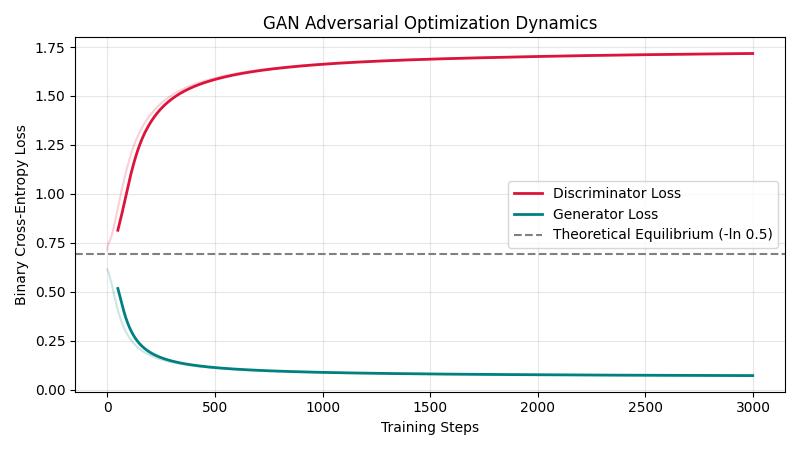
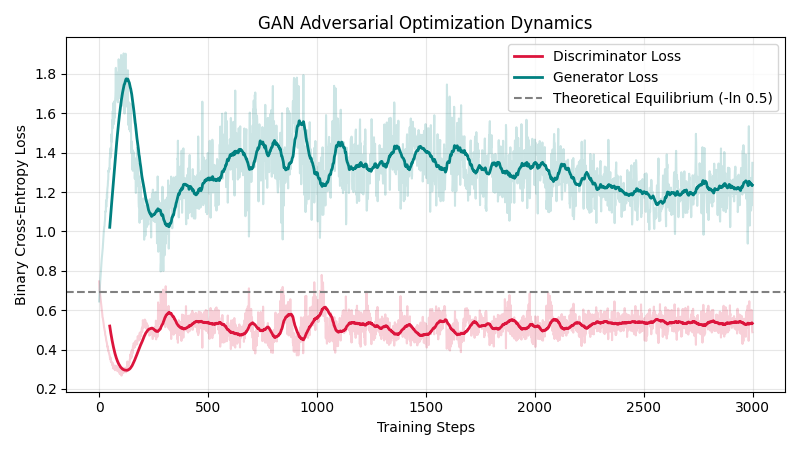
29-30

diff --git a/Exp.No.29/29.py b/Exp.No.29/29.py
@@ -18,14 +18,6 @@ def get_path(filename):
     return os.path.join(BASE_DIR, filename)
 
 
-def to_scalar(val):
-    """Safely extracts a scalar float from any 0D/1D numpy array, list, or tensor."""
-    arr = np.asarray(val)
-    if arr.ndim == 0:
-        return float(arr)
-    return float(arr.flatten()[0])
-
-
 def load_hazard_signs(filename="q29_hazard_signs_cgan.csv"):
     df = pd.read_csv(get_path(filename))
     X = df[[f"p_{i}" for i in range(64)]].values.astype(np.float32)
@@ -39,8 +31,8 @@ def build_cgan_models(latent_dim=16, num_classes=3):
     label_in = Input(shape=(1,), dtype="int32")
     label_emb = Reshape((latent_dim,))(Embedding(num_classes, latent_dim)(label_in))
     gen_in = Concatenate()([noise_in, label_emb])
-    h_g = LeakyReLU(alpha=0.2)(Dense(64)(gen_in))
-    h_g = LeakyReLU(alpha=0.2)(Dense(128)(h_g))
+    h_g = LeakyReLU(negative_slope=0.2)(Dense(64)(gen_in))
+    h_g = LeakyReLU(negative_slope=0.2)(Dense(128)(h_g))
     out_g = Dense(64, activation="sigmoid")(h_g)
     generator = Model([noise_in, label_in], out_g, name="cgen")
 
@@ -49,51 +41,60 @@ def build_cgan_models(latent_dim=16, num_classes=3):
     disc_label_in = Input(shape=(1,), dtype="int32")
     disc_label_emb = Reshape((64,))(Embedding(num_classes, 64)(disc_label_in))
     disc_in = Concatenate()([img_in, disc_label_emb])
-    h_d = LeakyReLU(alpha=0.2)(Dense(128)(disc_in))
-    h_d = LeakyReLU(alpha=0.2)(Dense(64)(h_d))
+    h_d = LeakyReLU(negative_slope=0.2)(Dense(128)(disc_in))
+    h_d = LeakyReLU(negative_slope=0.2)(Dense(64)(h_d))
     out_d = Dense(1, activation="sigmoid")(h_d)
     discriminator = Model([img_in, disc_label_in], out_d, name="cdisc")
-    discriminator.compile(
-        optimizer=tf.keras.optimizers.Adam(0.0005, beta_1=0.5),
-        loss="binary_crossentropy"
-    )
-
-    # Combined Conditional Model (trains generator)
-    discriminator.trainable = False
-    validity = discriminator([out_g, label_in])
-    cgan = Model([noise_in, label_in], validity)
-    cgan.compile(
-        optimizer=tf.keras.optimizers.Adam(0.0005, beta_1=0.5),
-        loss="binary_crossentropy"
-    )
-
-    return generator, discriminator, cgan
+    return generator, discriminator
 
 
 def train_cgan(X_real, y_real, steps=5000, batch_size=32, latent_dim=16):
+    """Conditional GAN trained with an explicit GradientTape loop. The discriminator update
+    changes only the discriminator weights and the generator update changes only the
+    generator weights, so no trainable-flag switching is needed."""
     num_classes = int(y_real.max()) + 1
-    gen, disc, cgan = build_cgan_models(latent_dim, num_classes)
+    gen, disc = build_cgan_models(latent_dim, num_classes)
+    bce = tf.keras.losses.BinaryCrossentropy()
+    g_opt = tf.keras.optimizers.Adam(0.0002, beta_1=0.5)
+    d_opt = tf.keras.optimizers.Adam(0.0002, beta_1=0.5)
+    real_data = tf.constant(X_real, dtype=tf.float32)
+    real_labels = tf.constant(y_real.reshape(-1, 1), dtype=tf.int32)
     m = len(X_real)
+
+    @tf.function
+    def train_step():
+        idx = tf.random.uniform((batch_size,), 0, m, dtype=tf.int32)
+        real_imgs = tf.gather(real_data, idx)
+        labels = tf.gather(real_labels, idx)
+
+        # Discriminator step (real label smoothed to 0.9, fakes use the same class labels)
+        noise = tf.random.normal((batch_size, latent_dim))
+        with tf.GradientTape() as d_tape:
+            fake_imgs = gen([noise, labels], training=True)
+            d_real = disc([real_imgs, labels], training=True)
+            d_fake = disc([fake_imgs, labels], training=True)
+            d_loss = 0.5 * (
+                bce(tf.ones_like(d_real) * 0.9, d_real) + bce(tf.zeros_like(d_fake), d_fake)
+            )
+        d_grads = d_tape.gradient(d_loss, disc.trainable_variables)
+        d_opt.apply_gradients(zip(d_grads, disc.trainable_variables))
+
+        # Generator step with random class labels and fresh noise
+        noise = tf.random.normal((batch_size, latent_dim))
+        sampled = tf.random.uniform((batch_size, 1), 0, num_classes, dtype=tf.int32)
+        with tf.GradientTape() as g_tape:
+            fake_imgs = gen([noise, sampled], training=True)
+            g_out = disc([fake_imgs, sampled], training=False)
+            g_loss = bce(tf.ones_like(g_out), g_out)
+        g_grads = g_tape.gradient(g_loss, gen.trainable_variables)
+        g_opt.apply_gradients(zip(g_grads, gen.trainable_variables))
+        return d_loss, g_loss
+
     d_losses, g_losses = [], []
-
     for _ in range(steps):
-        # Sample real images and their labels
-        idx = np.random.randint(0, m, batch_size)
-        real_imgs, labels = X_real[idx], y_real[idx].reshape(-1, 1)
-        noise = np.random.normal(0, 1, (batch_size, latent_dim)).astype(np.float32)
-        fake_imgs = gen.predict_on_batch([noise, labels])
-
-        # Train Discriminator (real label smoothed to 0.9)
-        res_real = disc.train_on_batch([real_imgs, labels], np.ones((batch_size, 1)) * 0.9)
-        res_fake = disc.train_on_batch([fake_imgs, labels], np.zeros((batch_size, 1)))
-        d_losses.append(0.5 * (to_scalar(res_real) + to_scalar(res_fake)))
-
-        # Train Generator with random class labels and fresh noise
-        noise = np.random.normal(0, 1, (batch_size, latent_dim)).astype(np.float32)
-        sampled_labels = np.random.randint(0, num_classes, (batch_size, 1)).astype(np.int32)
-        g_res = cgan.train_on_batch([noise, sampled_labels], np.ones((batch_size, 1)))
-        g_losses.append(to_scalar(g_res))
-
+        d_l, g_l = train_step()
+        d_losses.append(float(d_l))
+        g_losses.append(float(g_l))
     return gen, d_losses, g_losses, num_classes
 
 
@@ -120,7 +121,7 @@ def generate_outputs(gen, X_real, y_real, d_losses, g_losses, num_classes, laten
     for c in range(num_classes):
         noise = rng.normal(size=(200, latent_dim)).astype(np.float32)
         labels = np.full((200, 1), c, dtype=np.int32)
-        gen_samples[c] = gen.predict_on_batch([noise, labels])
+        gen_samples[c] = gen([noise, labels], training=False).numpy()
 
     rows = []
     for c in range(num_classes):

diff --git a/Exp.No.28/28.py b/Exp.No.28/28.py
@@ -16,14 +16,6 @@ def get_path(filename):
     return os.path.join(BASE_DIR, filename)
 
 
-def to_scalar(val):
-    """Safely extract a scalar float from a number, list, array or tensor."""
-    arr = np.asarray(val)
-    if arr.ndim == 0:
-        return float(arr)
-    return float(arr.flatten()[0])
-
-
 def load_silhouettes(filename="q28_product_silhouettes_gan.csv"):
     df = pd.read_csv(get_path(filename))
     return df.values.astype(np.float32)
@@ -33,9 +25,9 @@ def build_generator(latent_dim=16):
     model = Sequential([
         Input(shape=(latent_dim,)),
         Dense(64),
-        LeakyReLU(alpha=0.2),
+        LeakyReLU(negative_slope=0.2),
         Dense(128),
-        LeakyReLU(alpha=0.2),
+        LeakyReLU(negative_slope=0.2),
         Dense(64, activation="sigmoid"),
     ])
     return model
@@ -45,45 +37,58 @@ def build_discriminator(input_dim=64):
     model = Sequential([
         Input(shape=(input_dim,)),
         Dense(128),
-        LeakyReLU(alpha=0.2),
+        LeakyReLU(negative_slope=0.2),
         Dense(64),
-        LeakyReLU(alpha=0.2),
+        LeakyReLU(negative_slope=0.2),
         Dense(1, activation="sigmoid"),
     ])
-    model.compile(optimizer=tf.keras.optimizers.Adam(0.0005, beta_1=0.5), loss="binary_crossentropy")
     return model
 
 
 def train_gan(X_real, steps=3000, batch_size=32, latent_dim=16):
+    """Adversarial training with an explicit GradientTape loop. The discriminator update
+    changes only the discriminator weights and the generator update changes only the
+    generator weights, so no trainable-flag switching is needed."""
     gen = build_generator(latent_dim)
     disc = build_discriminator()
-
-    disc.trainable = False
-    gan_input = Input(shape=(latent_dim,))
-    gan_output = disc(gen(gan_input))
-    gan = tf.keras.Model(gan_input, gan_output)
-    gan.compile(optimizer=tf.keras.optimizers.Adam(0.0005, beta_1=0.5), loss="binary_crossentropy")
-
-    d_losses, g_losses = [], []
+    bce = tf.keras.losses.BinaryCrossentropy()
+    g_opt = tf.keras.optimizers.Adam(0.0002, beta_1=0.5)
+    d_opt = tf.keras.optimizers.Adam(0.0002, beta_1=0.5)
+    real_data = tf.constant(X_real, dtype=tf.float32)
     m = len(X_real)
 
-    for step in range(steps):
-        # Sample real & fake batches
-        idx = np.random.randint(0, m, batch_size)
-        real_imgs = X_real[idx]
-        noise = np.random.normal(0, 1, (batch_size, latent_dim)).astype(np.float32)
-        fake_imgs = gen.predict_on_batch(noise)
+    @tf.function
+    def train_step():
+        idx = tf.random.uniform((batch_size,), 0, m, dtype=tf.int32)
+        real_imgs = tf.gather(real_data, idx)
 
-        # Train Discriminator (one-sided label smoothing: real label 0.9)
-        res_real = disc.train_on_batch(real_imgs, np.ones((batch_size, 1)) * 0.9)
-        res_fake = disc.train_on_batch(fake_imgs, np.zeros((batch_size, 1)))
-        d_losses.append(0.5 * (to_scalar(res_real) + to_scalar(res_fake)))
+        # Discriminator step (one-sided label smoothing: real label 0.9)
+        noise = tf.random.normal((batch_size, latent_dim))
+        with tf.GradientTape() as d_tape:
+            fake_imgs = gen(noise, training=True)
+            d_real = disc(real_imgs, training=True)
+            d_fake = disc(fake_imgs, training=True)
+            d_loss = 0.5 * (
+                bce(tf.ones_like(d_real) * 0.9, d_real) + bce(tf.zeros_like(d_fake), d_fake)
+            )
+        d_grads = d_tape.gradient(d_loss, disc.trainable_variables)
+        d_opt.apply_gradients(zip(d_grads, disc.trainable_variables))
 
-        # Train Generator (through the frozen discriminator)
-        noise = np.random.normal(0, 1, (batch_size, latent_dim)).astype(np.float32)
-        g_res = gan.train_on_batch(noise, np.ones((batch_size, 1)))
-        g_losses.append(to_scalar(g_res))
+        # Generator step (non-saturating loss: generator wants D(fake) -> 1)
+        noise = tf.random.normal((batch_size, latent_dim))
+        with tf.GradientTape() as g_tape:
+            fake_imgs = gen(noise, training=True)
+            g_out = disc(fake_imgs, training=False)
+            g_loss = bce(tf.ones_like(g_out), g_out)
+        g_grads = g_tape.gradient(g_loss, gen.trainable_variables)
+        g_opt.apply_gradients(zip(g_grads, gen.trainable_variables))
+        return d_loss, g_loss
 
+    d_losses, g_losses = [], []
+    for _ in range(steps):
+        d_l, g_l = train_step()
+        d_losses.append(float(d_l))
+        g_losses.append(float(g_l))
     return gen, disc, d_losses, g_losses
 
 
@@ -130,9 +135,9 @@ def generate_outputs(gen, disc, X_real, d_losses, g_losses, latent_dim=16):
     # Table 3: Real vs generated image statistics
     rng = np.random.default_rng(42)
     noise = rng.normal(size=(len(X_real), latent_dim)).astype(np.float32)
-    fake = gen.predict_on_batch(noise)
-    d_real = float(np.mean(disc.predict_on_batch(X_real)))
-    d_fake = float(np.mean(disc.predict_on_batch(fake)))
+    fake = gen(noise, training=False).numpy()
+    d_real = float(np.mean(disc(X_real, training=False).numpy()))
+    d_fake = float(np.mean(disc(fake, training=False).numpy()))
     stats_df = pd.DataFrame(
         {
             "Metric": [
